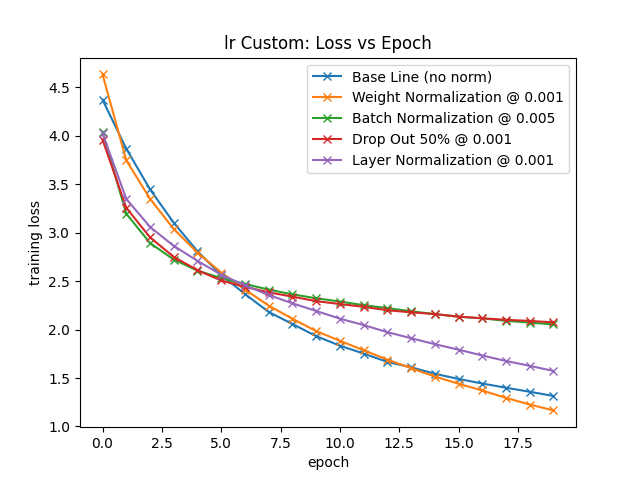
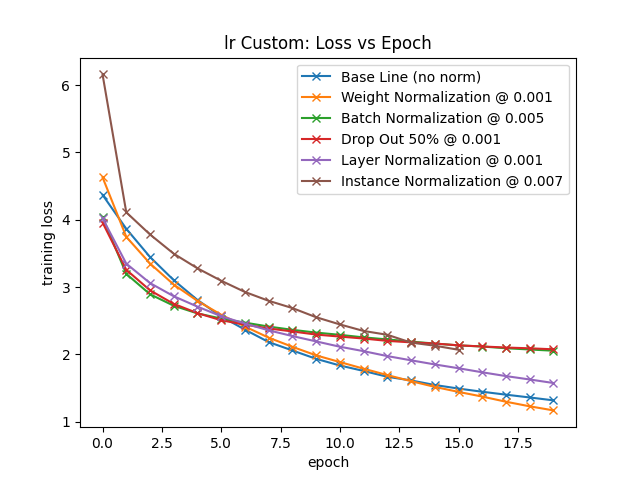
Instance norm results

diff --git a/src/readme_chart_generator.py b/src/readme_chart_generator.py
@@ -9,7 +9,8 @@ def create_STL10_003_charts():
         "WN_bb_my_norm_training@0.003|Adam|STL10",
         "STL10_batch_norm_3x_train_metrics",
         "DO_STL10|net_dropout_50_003",
-        "STL10_ln_003_train_metrics"
+        "STL10_ln_003_train_metrics",
+        "STL10_insnorm_3x_train_metrics"
     ]
 
     bl = load_stats(training_loss_stat_files_003[0])
@@ -17,13 +18,15 @@ def create_STL10_003_charts():
     bn = load_stats(training_loss_stat_files_003[2])
     do = load_stats(training_loss_stat_files_003[3])
     ln = load_stats(training_loss_stat_files_003[4])
+    _in = load_stats(training_loss_stat_files_003[5])
 
     labels = [
         "Base Line (no norm)",
         "Weight Normalization",
         "Batch Normalization",
         "Drop Out 50%",
-        "Layer Normalization"
+        "Layer Normalization",
+        "Instance Normalization"
     ]
 
     training_sets = [
@@ -31,7 +34,8 @@ def create_STL10_003_charts():
         wn,
         bn,
         do,
-        ln
+        ln,
+        _in
     ]
 
     # For every config, plot the accuracy across the number of epochs
@@ -48,7 +52,8 @@ def create_STL10_custom_charts():
         "WN_bb_my_norm_training@0.001|Adam|STL10",
         "STL10_batch_norm_5x_train_metrics",
         "DO_STL10|net_dropout_50_lr1",
-        "STL10_ln_001_train_metrics"
+        "STL10_ln_001_train_metrics",
+        "STL10_insnorm_train_metrics"
     ]
 
     bl = load_stats(training_loss_stat_files_003[0])
@@ -56,6 +61,7 @@ def create_STL10_custom_charts():
     bn = load_stats(training_loss_stat_files_003[2])
     do = load_stats(training_loss_stat_files_003[3])
     ln = load_stats(training_loss_stat_files_003[4])
+    _in = load_stats(training_loss_stat_files_003[5])
 
     training_sets = [
         bl,
@@ -63,6 +69,7 @@ def create_STL10_custom_charts():
         bn,
         do,
         ln,
+        _in,
     ]
 
     labels = [
@@ -70,7 +77,8 @@ def create_STL10_custom_charts():
         "Weight Normalization @ 0.001",
         "Batch Normalization @ 0.005",
         "Drop Out 50% @ 0.001",
-        "Layer Normalization @ 0.001"
+        "Layer Normalization @ 0.001",
+        "Instance Normalization @ 0.001"
     ]
 
     # For every config, plot the accuracy across the number of epochs
@@ -165,7 +173,8 @@ def create_CIFAR_003_charts():
         "WN_bb_my_norm_training@0.003|Adam|CIFAR-100",
         "CIFAR-100_batch_norm_3x_train_metrics",
         "net_dropout_50_003",
-        "CIFAR-100_ln_003_train_metrics"
+        "CIFAR-100_ln_003_train_metrics",
+        "CIFAR-100_insnorm_3x_train_metrics"
     ]
 
     tmp_bl = load_stats(training_loss_stat_files_003[0])  # base line went longer than 20 epochs
@@ -178,13 +187,15 @@ def create_CIFAR_003_charts():
     bn = load_stats(training_loss_stat_files_003[2])
     do = load_stats(training_loss_stat_files_003[3])
     ln = load_stats(training_loss_stat_files_003[4])
+    _in = load_stats(training_loss_stat_files_003[5])
 
     labels = [
         "Base Line (no norm)",
         "Weight Normalization",
         "Batch Normalization",
         "Drop Out 50%",
-        "Layer Normalization"
+        "Layer Normalization",
+        "Instance Normalization"
     ]
 
     training_sets = [
@@ -192,7 +203,8 @@ def create_CIFAR_003_charts():
         wn,
         bn,
         do,
-        ln
+        ln,
+        _in
     ]
 
     # For every config, plot the accuracy across the number of epochs
@@ -209,7 +221,8 @@ def create_CIFAR_custom_charts():
         "WN_bb_my_norm_training@0.001|Adam|CIFAR-100",
         "CIFAR-100_batch_norm_5x_train_metrics",
         "net_dropout_50_lr1",
-        "CIFAR-100_ln_001_train_metrics"
+        "CIFAR-100_ln_001_train_metrics",
+        "CIFAR-100_insnorm_7x_train_metrics"
     ]
 
     tmp_bl = load_stats(training_loss_stat_files_003[0])  # base line went longer than 20 epochs
@@ -222,13 +235,16 @@ def create_CIFAR_custom_charts():
     bn = load_stats(training_loss_stat_files_003[2])
     do = load_stats(training_loss_stat_files_003[3])
     ln = load_stats(training_loss_stat_files_003[4])
+    _in = load_stats(training_loss_stat_files_003[5])
+
 
     labels = [
         "Base Line (no norm)",
         "Weight Normalization @ 0.001",
         "Batch Normalization @ 0.005",
         "Drop Out 50% @ 0.001",
-        "Layer Normalization @ 0.001"
+        "Layer Normalization @ 0.001",
+        "Instance Normalization @ 0.007"
     ]
 
     training_sets = [
@@ -236,7 +252,8 @@ def create_CIFAR_custom_charts():
         wn,
         bn,
         do,
-        ln
+        ln,
+        _in
     ]
 
     # For every config, plot the accuracy across the number of epochs
@@ -364,12 +381,12 @@ def create_ViT_TINY_charts():
 
 
 if __name__ == "__main__":
-    # create_STL10_custom_charts()
-    # create_STL10_003_charts()
-    # create_TINY_custom_charts()
-    # create_TINY_003_charts()
-    # create_CIFAR_custom_charts()
-    # create_CIFAR_003_charts()
+    create_STL10_custom_charts()
+    create_STL10_003_charts()
+    create_TINY_custom_charts()
+    create_TINY_003_charts()
+    create_CIFAR_custom_charts()
+    create_CIFAR_003_charts()
 
     create_ViT_CIFAR_charts()
     create_ViT_STL10_charts()

diff --git a/README.md b/README.md
@@ -55,6 +55,7 @@ Setup:
 | Batch Normalization | 44.09 | 41.36 |
 | Drop Out | 27.3 | 38.02 |
 | Layer Normalization | 31.74 | 37.04 |
+| Instance Normalization | 44.32 | 35.4 |
 
 ### STL10 Task Performance per Normalization
 
@@ -81,6 +82,7 @@ Setup:
 | Batch Normalization | 56.8875 | 60.1 |
 | Drop Out | 43.89 | 52.08 |
 | Layer Normalization | 46.75 | 57.0 |
+| Instance Normalization | 36.5125 |  52.125 | 
 
 ### Tiny ImageNet Task Performance per Normalization
 
